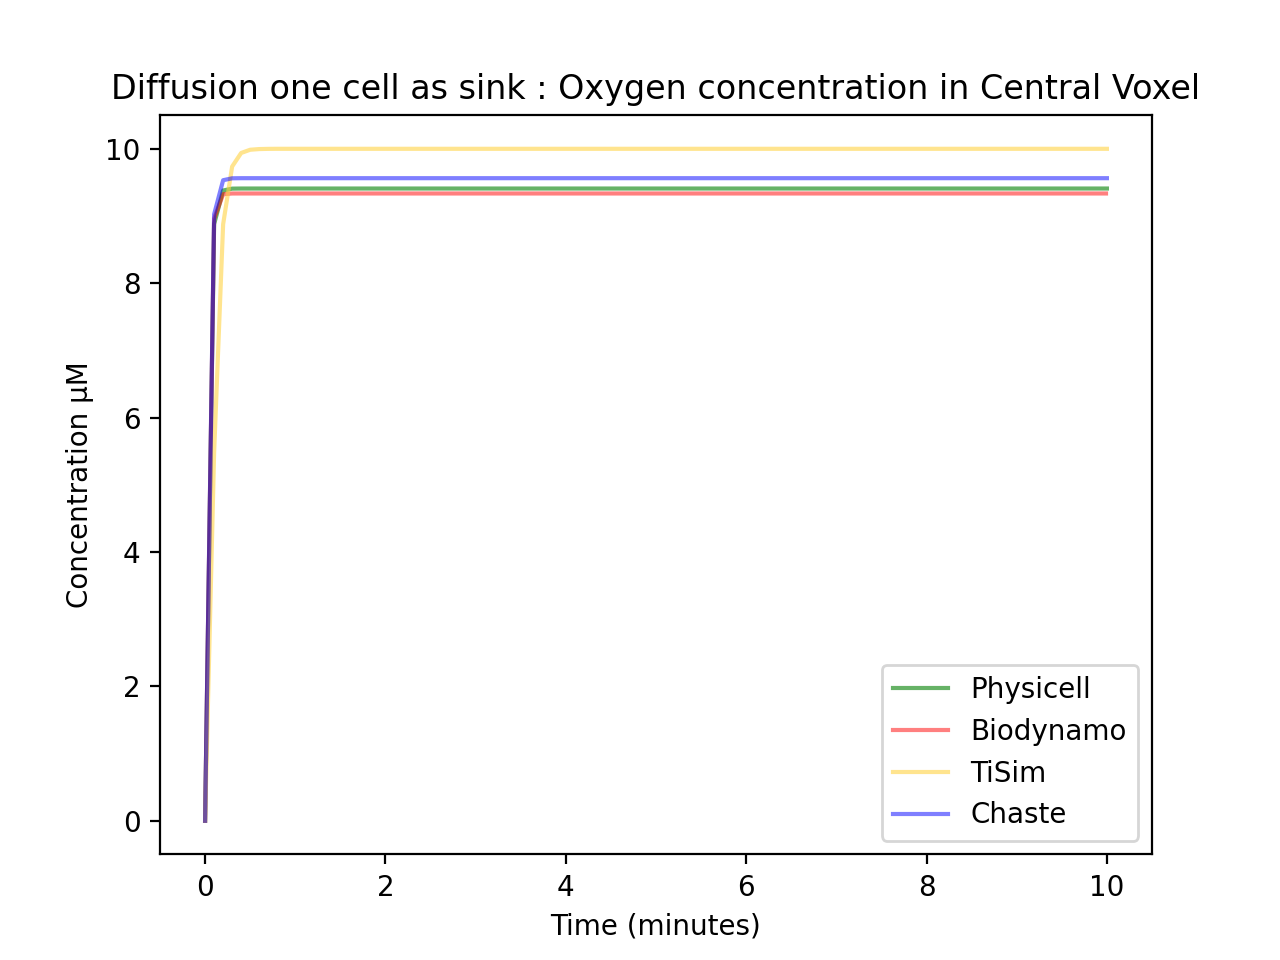
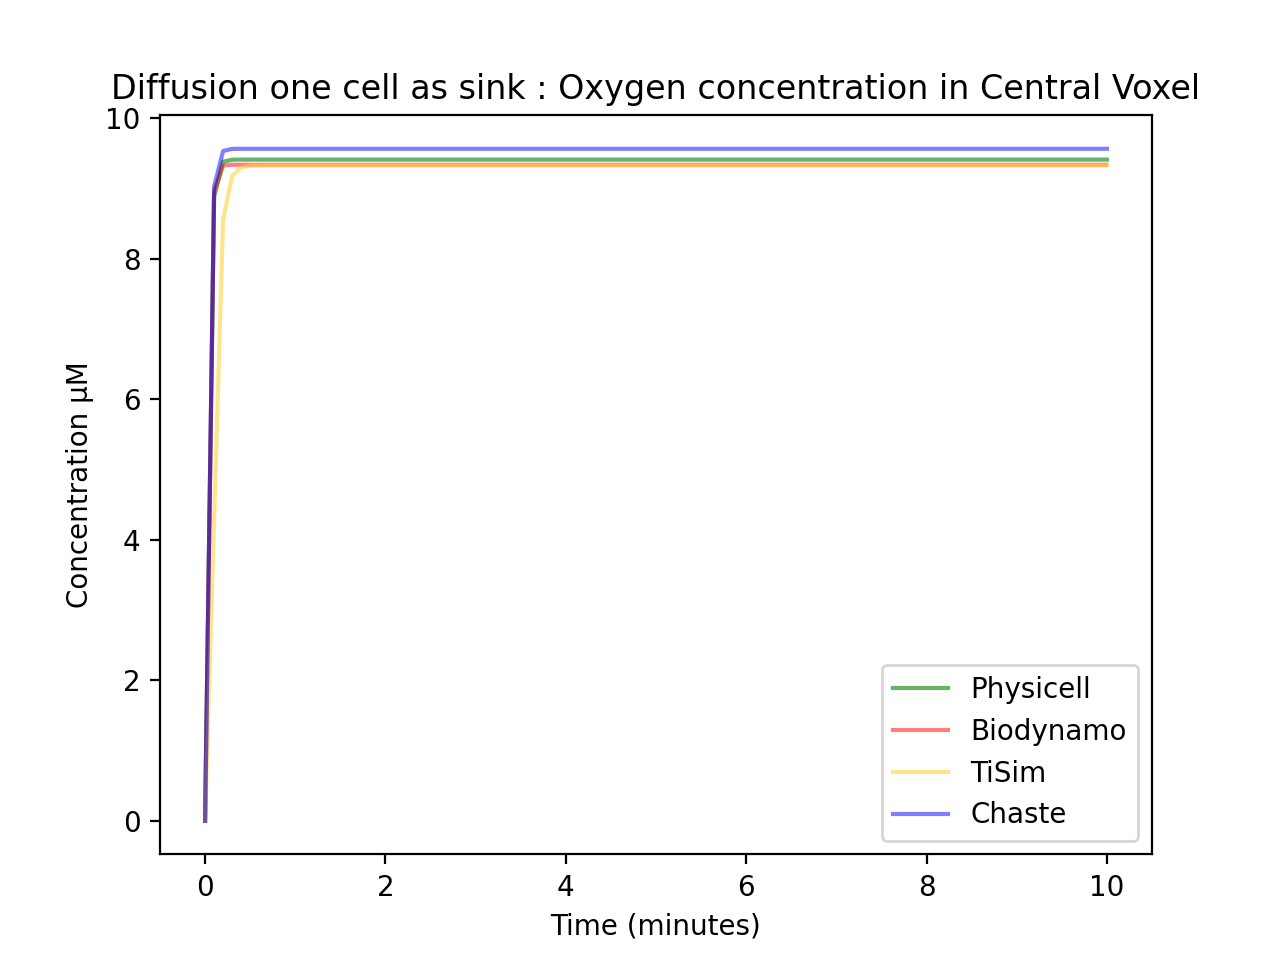
updated diggusion for tisim

diff --git a/multiscale_benchmark/2022_09_hackathon/analysis/single_diffusion_o2_central_voxel.py b/multiscale_benchmark/2022_09_hackathon/analysis/single_diffusion_o2_central_voxel.py
@@ -7,6 +7,7 @@ from sklearn.preprocessing import MinMaxScaler, StandardScaler
 pd.set_option('display.float_format', lambda x: '%.5f' % x)
 # ../Biodynamo/unit_test_diffusion/results/concentration.csv
 # ../Tisim/unit_test_diffusion/results/result_1c_diffusion.txt
+# observatory_benchmark/multiscale_benchmark/2022_09_hackathon/Tisim/unit_test_diffusion/results/arnau_diffusion1.txt
 def get_physicell_df(file):
     df= pd.read_csv(file,index_col=0)
     df = df.loc[df.index == 13]
@@ -44,13 +45,16 @@ def get_biodynamo_df(file):
     selected_rows.drop('timestep_rounded', axis=1, inplace=True)
     return selected_rows
 def get_tisim_df(file):
-    df= pd.read_csv(file,delimiter="\t",names = ['timestep','diff'],header=0)
+    # df= pd.read_csv(file,delimiter="\t",names = ['timestep','diff'],header=0)
+    df= pd.read_csv(file,delimiter="\t",usecols=[0,14],names = ['timestep','diff'],header=0)
+    new_row = pd.Series([0, 0])
+    df.loc[0]=[0,0]
+    print(df)
     timesteps = np.concatenate((np.linspace(0, 1, num=11)[:-1], np.arange(1, 11, 1)))
     timesteps_rounded = np.round(timesteps, 2)
     df['timestep_rounded'] = df['timestep'].round(2)
     selected_rows = df[df['timestep_rounded'].isin(timesteps_rounded)]
     selected_rows.drop('timestep_rounded', axis=1, inplace=True)
-
     # df.rename(columns={'Concentration (uM)': 'diff'}, inplace=True)
     return selected_rows
 
@@ -74,7 +78,7 @@ def main():
     parser.add_argument("--bd-csv",action="store", dest = "bd_csv" ,help="Path to BioDynaMo concentration over time csv",
                     default="../Biodynamo/unit_test_diffusion_small/data.csv")
     parser.add_argument("--ts-csv",action="store", dest = "ts_csv", help="Path to TiSim concentration over time csv",
-                    default="../Tisim/unit_test_diffusion/results/result_1c_diffusion.txt")
+                    default="../Tisim/unit_test_diffusion/results/arnau_diffusion1.txt")
     parser.add_argument("--ch-csv",action="store",dest = "ch_csv", help="Path to Chaste concentration over time csv",
                         default="../Chaste/unit_test_diffusion/results/TestDiffusionSmall03.dat")
     
